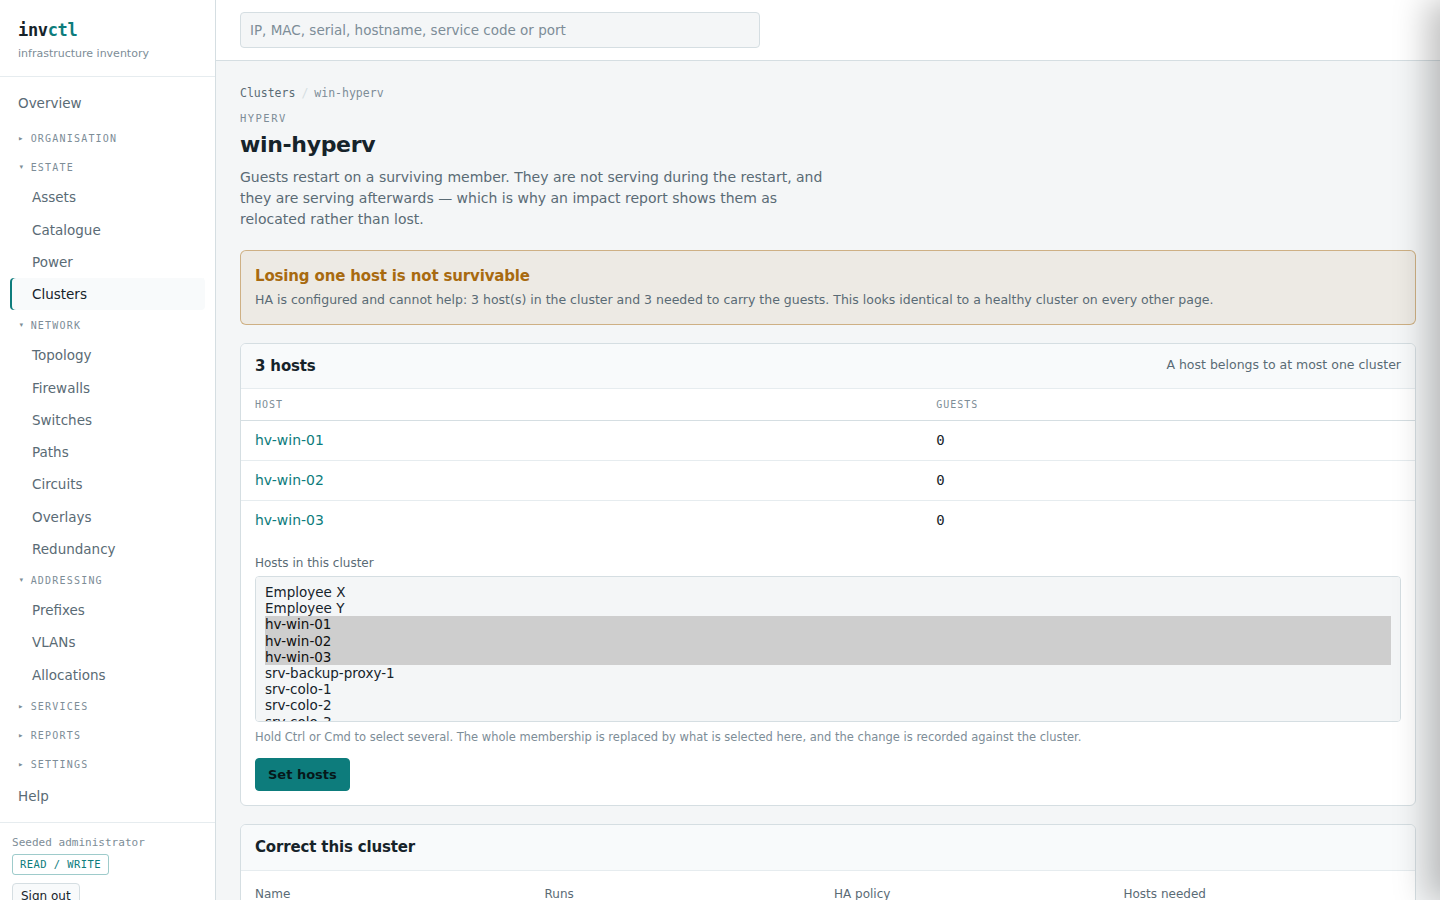
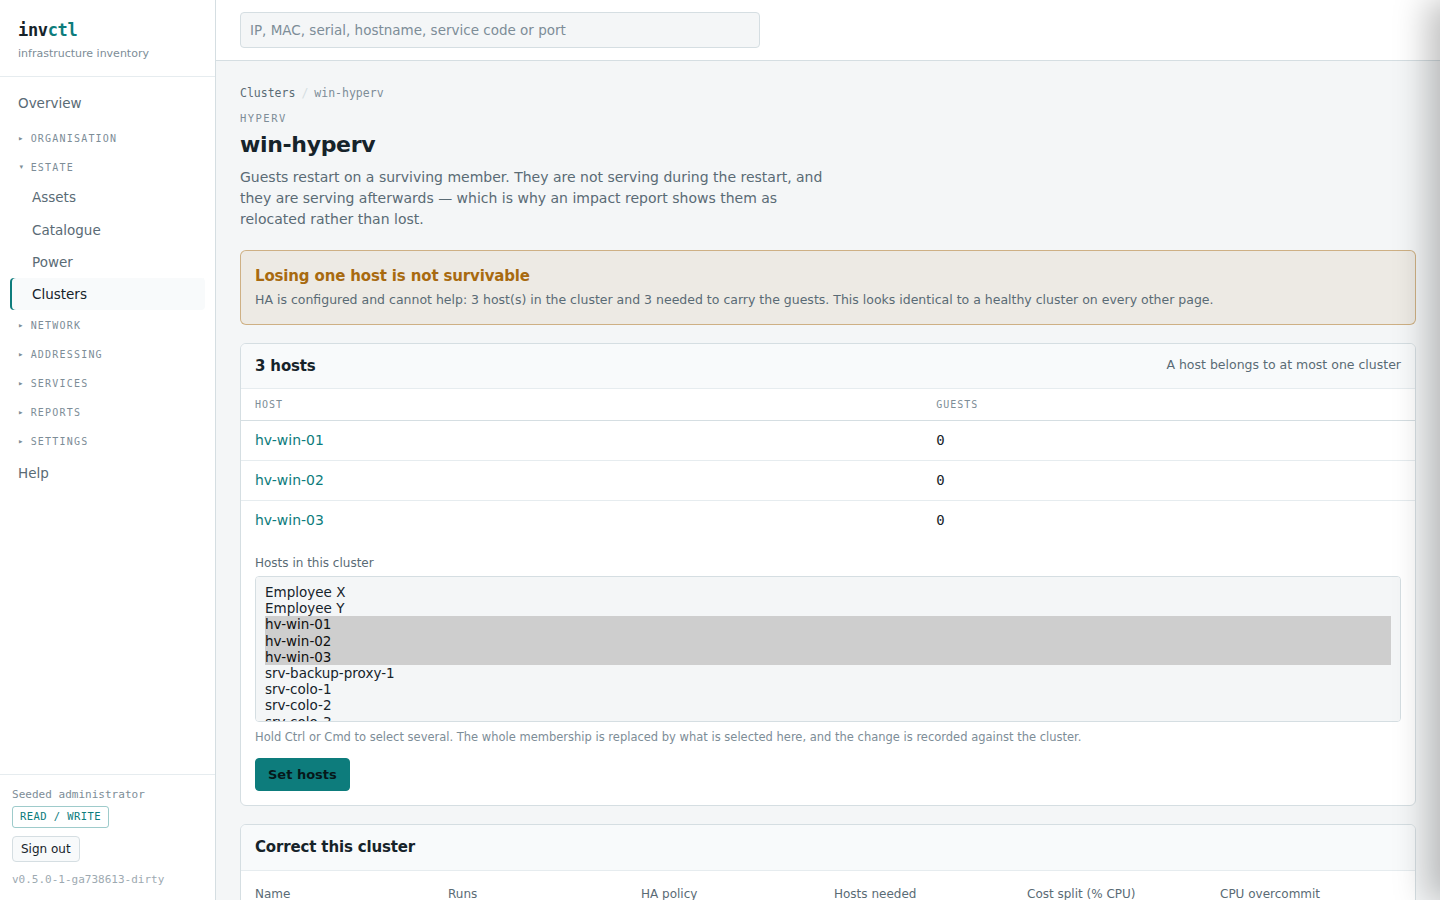
The cost table printed basis points where a reader expects a percent
1940 under a column headed Blended, on a page saying 19.4% a few inches
above. A reader takes that at face value and is wrong by a hundred times.
Basis points are the storage unit -- the integer is what makes the slices
sum exactly -- and they are not what anybody is asking.

Found while capturing the manual, which is what the manual is for: the
panel had passed every test and read wrong the moment it was put in front
of somebody.

The test took three attempts and each failure is the same lesson. First a
negative assertion (does not contain 1940) -- passes whenever the fixture's
numbers differ, which they do. Then a positive one for a percentage cell
anywhere in the panel -- passes while two of the three columns have
regressed. Only asserting all three share columns kills all three
mutations.

Claude-Session: https://claude.ai/code/session_01E3MV6VbivyKpFZtyNcLK9D

diff --git a/web/templates/pages/cluster_detail.html b/web/templates/pages/cluster_detail.html
@@ -372,9 +372,9 @@
         {{range .Shares}}
         <tr>
           <td>{{if .SubjectID}}<a href="/projects/{{.SubjectID}}">{{.Subject}}</a>{{else}}<span class="muted">{{.Subject}}</span>{{end}}</td>
-          <td class="num">{{.CPUPoints}}</td>
-          <td class="num">{{.MemoryPoints}}</td>
-          <td class="num">{{.BasisPoints}}</td>
+          <td class="num">{{.CPUPercent}}%</td>
+          <td class="num">{{.MemoryPercent}}%</td>
+          <td class="num">{{.BlendedPercent}}%</td>
           <td class="num">{{money .RunRateMinor}}</td>
           <td class="num">{{money .AmortisedMinor}}</td>
           <td class="num">{{money .DirectMinor}}</td>
@@ -383,9 +383,9 @@
         {{end}}
         <tr>
           <td><span class="muted">{{.Idle.Subject}}</span></td>
-          <td class="num">{{.Idle.CPUPoints}}</td>
-          <td class="num">{{.Idle.MemoryPoints}}</td>
-          <td class="num">{{.Idle.BasisPoints}}</td>
+          <td class="num">{{.Idle.CPUPercent}}%</td>
+          <td class="num">{{.Idle.MemoryPercent}}%</td>
+          <td class="num">{{.Idle.BlendedPercent}}%</td>
           <td class="num">{{money .Idle.RunRateMinor}}</td>
           <td class="num">{{money .Idle.AmortisedMinor}}</td>
           <td class="num">—</td>
@@ -394,10 +394,10 @@
       </tbody>
     </table>
     <p class="field-hint">
-      CPU and memory are shown in basis points beside the blend so the
-      arithmetic can be checked rather than taken on trust: the blend is
-      {{derefInt .SplitCPU}}% of the CPU share plus the rest of the memory
-      share. Headroom is a row because somebody is paying for it.
+      CPU and memory are shown beside the blend so the arithmetic can be
+      checked rather than taken on trust: the blend is {{derefInt .SplitCPU}}%
+      of the CPU share plus the rest of the memory share. Headroom is a row
+      because somebody is paying for it.
     </p>
     {{else}}
     <div class="empty">

diff --git a/internal/web/capacity_test.go b/internal/web/capacity_test.go
@@ -343,6 +343,26 @@ func TestTheClusterPageSaysWhatTheShareCosts(t *testing.T) {
 	if !strings.Contains(page, `value="60"`) {
 		t.Error("the declared split does not come back on the form")
 	}
+	// THE SHARES ARE RENDERED AS PERCENTAGES, not as the basis points they are
+	// stored in. The first version printed 1940 under a column headed "blended"
+	// on a page saying 19.4% a few inches above -- a reader takes that at face
+	// value and is wrong by a hundred times.
+	//
+	// Asserted on the CELL rather than on the absence of a particular number: a
+	// negative assertion passes whenever the fixture's figures happen to differ,
+	// which is exactly what it did when it was first written.
+	panel := page[strings.Index(page, "What that share costs"):]
+	if end := strings.Index(panel, "</table>"); end > 0 {
+		panel = panel[:end]
+	}
+	// All THREE share columns -- CPU, memory and the blend they produce. Testing
+	// that "a percentage appears somewhere" passes while two of the three have
+	// regressed, which is what the previous version of this assertion did.
+	if n := strings.Count(panel, `class="num">0%<`); n != 3 {
+		t.Errorf("%d of the 3 share columns render as percentages; a basis-point "+
+			"integer under a column headed Blended reads as a percentage and is "+
+			"wrong by a hundred times:\n%s", n, panel)
+	}
 }
 
 // TestWithoutASplitThePageSaysSoRatherThanGuessing. Half and half is not

diff --git a/internal/store/cost_attribution.go b/internal/store/cost_attribution.go
@@ -57,6 +57,22 @@ type CostShare struct {
 	DirectMinor int64
 }
 
+// CPUPercent, MemoryPercent and BlendedPercent render the shares the way the
+// capacity table above them already does.
+//
+// BASIS POINTS ARE THE STORAGE UNIT, NOT THE READING UNIT. The first version of
+// the cost panel printed them raw -- 1940 beside a column headed "blended", on
+// the same page as a table saying 19.4% -- and a reader would take the number at
+// face value and be wrong by a hundred times. The integer is what makes the
+// slices sum exactly; it is not what anybody is asking.
+func (s CostShare) CPUPercent() string { return domain.RatioText(s.CPUPoints) }
+
+// MemoryPercent is the memory share as a percentage.
+func (s CostShare) MemoryPercent() string { return domain.RatioText(s.MemoryPoints) }
+
+// BlendedPercent is the weighted share the money was actually divided by.
+func (s CostShare) BlendedPercent() string { return domain.RatioText(s.BasisPoints) }
+
 // TotalMinor is the run rate plus the capital spread plus what was attributed
 // directly. Named rather than implied: a reader who wants the run rate alone
 // has it, and one who wants everything gets a figure that says it includes

diff --git a/docs/manual/parts/00-getting-started.md b/docs/manual/parts/00-getting-started.md
@@ -26,7 +26,7 @@ pages. The rail's footer shows which you have.
 The first page is not a dashboard of counts. It is a list of **what needs a
 decision**.
 
-![The overview page. A table headed "17 findings" lists rows tagged FAULT, RISK or GAP, each with a count, a finding and an example — "past its date, 6, sw-core-1 lapsed on 2025-06-03" and "too deep for the rack, 3, hv-esx-01 in rack-a2: 772mm chassis plus 75mm for cabling needs 847mm, and the cabinet has 600mm".](../img/getting-started-2-overview.png)
+![The overview page. A table headed "21 findings" lists rows tagged FAULT, RISK or GAP, each with a count, a finding and an example — "past its date, 6, sw-core-1 lapsed on 2025-06-03", "too deep for the rack, 3, hv-esx-01 in rack-a2: 772mm chassis plus 75mm for cabling needs 847mm, and the cabinet has 600mm", and "project grown past what it was priced for, 2, platform: using 28 vCPU against the 24 it was priced for — nobody is in breach, the margin is eroding".](../img/getting-started-2-overview.png)
 
 Every row here was already computed by some other page. What this adds is the
 one place that says them together, because a finding on a page nobody opened
@@ -42,13 +42,20 @@ The three severities are not decoration:
 | | |
 |---|---|
 | **fault** | something is wrong now — a certificate has expired, two supposedly redundant power feeds trace to one UPS |
-| **risk** | nothing is wrong, and one failure away something is — a VRRP group with one router, a contract renewing next month |
-| **gap** | the inventory does not know — a site with no power recorded, a circuit with one end |
+| **risk** | nothing is wrong, and one failure away something is — a VRRP group with one router, a contract renewing next month, an engagement that has grown past what it was priced for |
+| **gap** | the inventory does not know — a site with no power recorded, a circuit with one end, a cluster whose hosts nobody has measured |
 
 The third is the one most tools leave out, and it is what makes the other two
 worth trusting. Three faults across four modelled assets is not a healthy
 estate; it is an unmodelled one, and a report that cannot say *"I do not know"*
 is a report that guesses.
+
+**Not all of them are about hardware.** *"Project grown past what it was priced
+for"* is a commercial finding: nobody is in breach, the engagement has simply
+outgrown the assumption its price was built on, and the margin is eroding
+quietly. It sits in the same list as a lapsed certificate because it needs the
+same thing — somebody to decide — and because the person who would notice it is
+not the person watching the racks.
 
 Every finding links to the page that explains it. Nothing here is stored — it is
 recomputed on each visit, so it cannot go stale against the pages it summarises.
